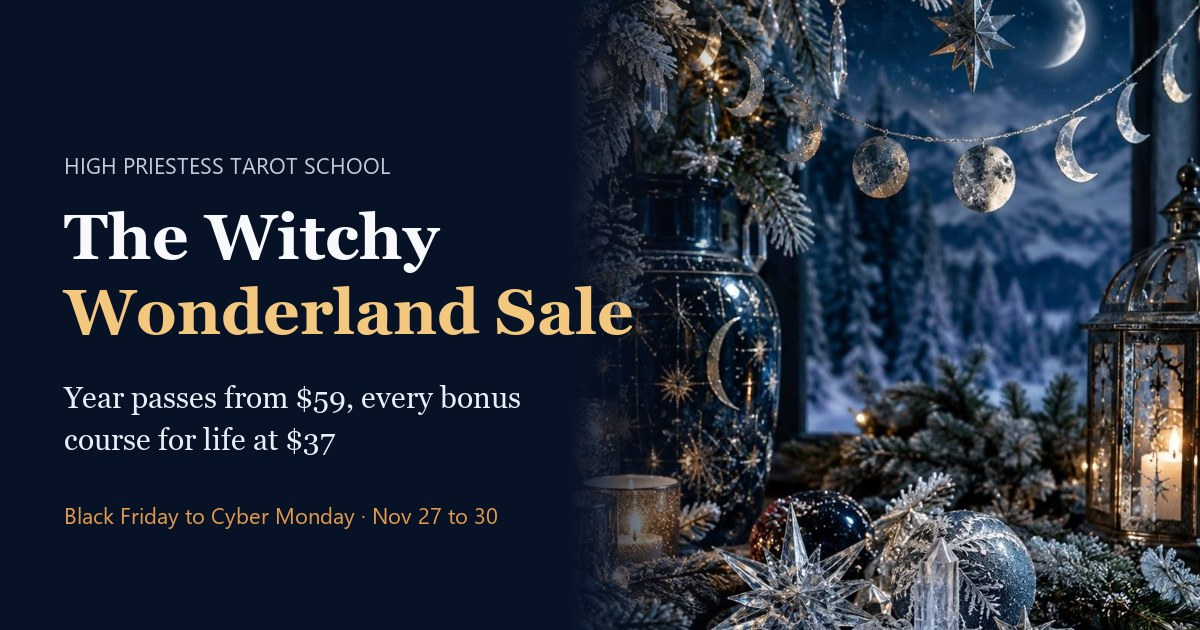
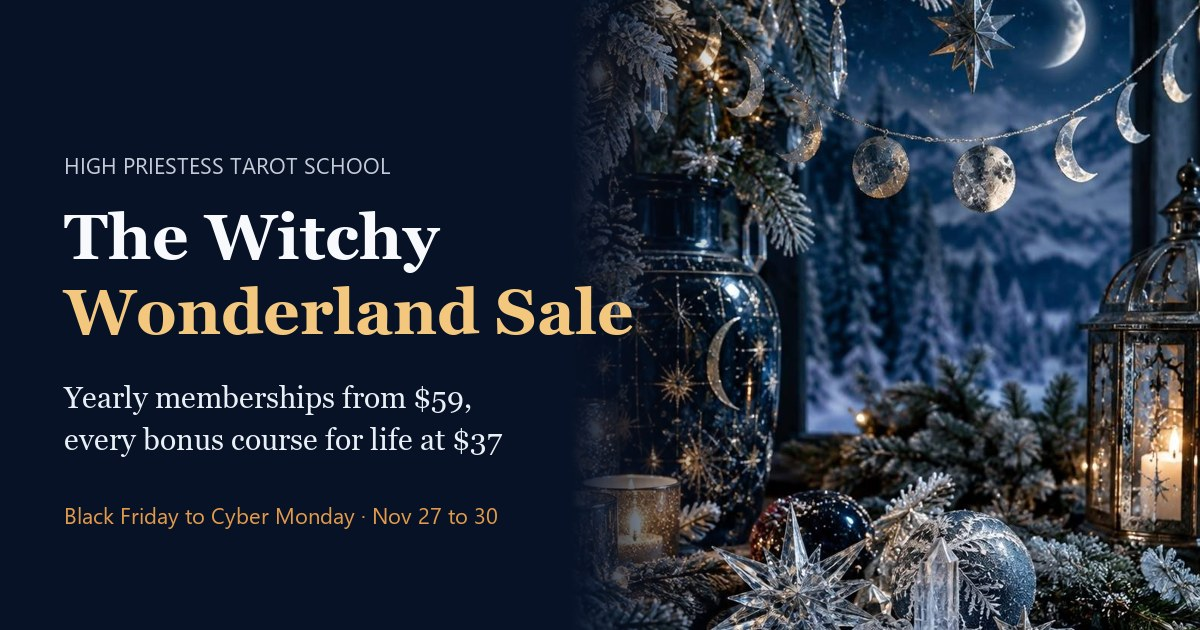
Witchy Wonderland: yearly memberships

Changed region(s): [[0.0617, 0.6032, 0.4317, 0.7238]]

diff --git a/witchy-wonderland/index.html b/witchy-wonderland/index.html
@@ -4,19 +4,19 @@
 <meta charset="utf-8">
 <meta name="viewport" content="width=device-width, initial-scale=1">
 <title>The Witchy Wonderland Sale · High Priestess Tarot School</title>
-<meta name="description" content="Year passes for every level of High Priestess Tarot School from $59, plus every bonus course for life at $37. Black Friday through Cyber Monday, Nov 27 to 30.">
+<meta name="description" content="Yearly memberships for every level of High Priestess Tarot School from $59 a year, plus every bonus course for life at $37. Black Friday through Cyber Monday, Nov 27 to 30.">
 <link rel="canonical" href="https://links.sunnysink.com/witchy-wonderland/">
 <meta property="og:type" content="website">
 <meta property="og:site_name" content="High Priestess Tarot School">
 <meta property="og:title" content="The Witchy Wonderland Sale · High Priestess Tarot School">
-<meta property="og:description" content="Year passes for every level of High Priestess Tarot School from $59, plus every bonus course for life at $37. Black Friday through Cyber Monday, Nov 27 to 30.">
+<meta property="og:description" content="Yearly memberships for every level of High Priestess Tarot School from $59 a year, plus every bonus course for life at $37. Black Friday through Cyber Monday, Nov 27 to 30.">
 <meta property="og:url" content="https://links.sunnysink.com/witchy-wonderland/">
 <meta property="og:image" content="https://links.sunnysink.com/witchy-wonderland/preview.jpg">
 <meta property="og:image:width" content="1200">
 <meta property="og:image:height" content="630">
 <meta name="twitter:card" content="summary_large_image">
 <meta name="twitter:title" content="The Witchy Wonderland Sale · High Priestess Tarot School">
-<meta name="twitter:description" content="Year passes for every level of High Priestess Tarot School from $59, plus every bonus course for life at $37. Black Friday through Cyber Monday, Nov 27 to 30.">
+<meta name="twitter:description" content="Yearly memberships for every level of High Priestess Tarot School from $59 a year, plus every bonus course for life at $37. Black Friday through Cyber Monday, Nov 27 to 30.">
 <meta name="twitter:image" content="https://links.sunnysink.com/witchy-wonderland/preview.jpg">
 <link rel="preconnect" href="https://fonts.googleapis.com">
 <link rel="preconnect" href="https://fonts.gstatic.com" crossorigin>
@@ -233,7 +233,7 @@ footer a{color:var(--silver)}
       <p class="eyebrow">High Priestess Tarot School presents</p>
       <h1 class="saletitle">The Witchy Wonderland Sale</h1>
       <p class="promise">Every bonus course, yours for life. <em>For the first time ever.</em></p>
-      <p class="sub">Year passes from $59, plus every bonus course for life at $37. Black Friday through Cyber Monday only.</p>
+      <p class="sub">Yearly memberships from $59 a year, plus every bonus course for life at $37. Black Friday through Cyber Monday only.</p>
       <a class="btn" href="#price">See the offers</a>
       <p class="dates">Nov 27 to 30, 2026 · ends Monday at 11:59pm Pacific</p>
     </div>
@@ -243,9 +243,9 @@ footer a{color:var(--silver)}
         <div class="top"><span>High Priestess Tarot School</span><span>❄ ☾ ✦</span></div>
         <div class="title"><small>The Witchy Wonderland Sale</small>Your 2027 in tarot</div>
         <div class="tiles">
-          <div class="tile"><b>HPTS Year Pass</b><span>12 months</span></div>
-          <div class="tile"><b>TMC Year Pass</b><span>12 months</span></div>
-          <div class="tile"><b>MIM Year Pass</b><span>12 months</span></div>
+          <div class="tile"><b>HPTS Yearly</b><span>$59 a year</span></div>
+          <div class="tile"><b>TMC Yearly</b><span>$247 a year</span></div>
+          <div class="tile"><b>MIM Yearly</b><span>$444 a year</span></div>
           <div class="tile"><b>The Priestess Path Collection</b><span>Lifetime access</span></div>
         </div>
       </div></div>
@@ -275,14 +275,14 @@ footer a{color:var(--silver)}
   <div class="wrap cols">
     <div>
       <h2>What changes in 2027</h2>
-      <p style="color:var(--silver)">A year pass gives your tarot study a home for twelve months, paid for and ready, so the plan you make in January is still going strong in June.</p>
+      <p style="color:var(--silver)">A yearly membership gives your tarot study a home all year, at a sale price that stays yours every year you stay, so the plan you make in January is still going strong in June.</p>
     </div>
     <ul>
       <li>You pull a card and start talking. The meaning comes from you, and you trust it.</li>
       <li>Your lessons, your questions and your community are all in one place, every month of the year.</li>
       <li>When a friend says "will you read for me?", you say yes and enjoy it.</li>
       <li>You know your next step, whether that's certification or going deeper into intuition and magic.</li>
-      <li>Your budget for the year's learning is settled before the holidays are over.</li>
+      <li>Your price for the year's learning is set before the holidays are over, and it stays that price every year you renew.</li>
     </ul>
   </div>
 </section>
@@ -292,7 +292,7 @@ footer a{color:var(--silver)}
   <div class="wrap">
     <p class="eyebrow" style="color:var(--ember)">The offer</p>
     <h2>Four ways to give yourself 2027 in tarot.</h2>
-    <p class="lead">The Witchy Wonderland Sale runs for four days only. Pick the year pass that matches where you are right now, from your first lessons to certification and beyond. Or pick The Priestess Path Collection for lifetime access to six courses. You pay once, and your whole year of tarot is ready to go.</p>
+    <p class="lead">The Witchy Wonderland Sale runs for four days only. Pick the yearly membership that matches where you are right now, from your first lessons to certification and beyond. Or pick The Priestess Path Collection for lifetime access to six courses. You pay once, and your whole year of tarot is ready to go.</p>
   </div>
 </section>
 
@@ -300,12 +300,12 @@ footer a{color:var(--silver)}
 <section class="inside">
   <div class="wrap">
     <p class="eyebrow" style="color:var(--ember)">What's inside</p>
-    <h2>Tarot School Year Passes</h2>
+    <h2>Tarot School Yearly Memberships</h2>
 
     <div class="row">
-      <div class="label"><small>Year pass</small>High Priestess Tarot School</div>
+      <div class="label"><small>Yearly membership</small>High Priestess Tarot School</div>
       <div><h4>What it holds</h4><ul>
-        <li>12 months of High Priestess Tarot School</li>
+        <li>A full year of High Priestess Tarot School, renewing yearly</li>
         <li>The 33-lesson core course</li>
         <li>Five bonus trainings, including Magic of Tarot &amp; Astrology</li>
         <li>The Tarot Reflections Journal</li>
@@ -316,9 +316,9 @@ footer a{color:var(--silver)}
     </div>
 
     <div class="row tmcrow">
-      <div class="label"><small>Year pass</small>Tarot Mastery Circle</div>
+      <div class="label"><small>Yearly membership</small>Tarot Mastery Circle</div>
       <div><h4>What it holds</h4><ul>
-        <li>12 months of Tarot Mastery Circle</li>
+        <li>A full year of Tarot Mastery Circle, renewing yearly</li>
         <li>Everything in High Priestess Tarot School</li>
         <li>Live practice sessions and a weekly Zoom</li>
         <li>Live feedback on your readings</li>
@@ -329,9 +329,9 @@ footer a{color:var(--silver)}
     </div>
 
     <div class="row">
-      <div class="label"><small>Year pass</small>Magic and Intuition Mastery</div>
+      <div class="label"><small>Yearly membership</small>Magic and Intuition Mastery</div>
       <div><h4>What it holds</h4><ul>
-        <li>12 months of full access to Magic and Intuition Mastery, Tarot Mastery Circle and High Priestess Tarot School</li>
+        <li>A full year of Magic and Intuition Mastery, Tarot Mastery Circle and High Priestess Tarot School, renewing yearly</li>
         <li>Lifetime access to the MIM core content</li>
         <li>Your $99 certification fee, covered</li>
       </ul></div>
@@ -347,7 +347,7 @@ footer a{color:var(--silver)}
     <p class="eyebrow" style="color:var(--glow)">Lifetime access</p>
     <h2>The Priestess Path Collection</h2>
     <p class="lead">Six courses that are yours for life. Each one arrives in your inbox as its own PDF with links to everything inside, so you can keep them, come back to them and work through them at your own pace.</p>
-    <p class="lead"><b>All six courses are also inside High Priestess Tarot School.</b> The HPTS Year Pass gives you every one of them for 12 months, along with the 33-lesson core course, the Tarot Reflections Journal, Q&amp;A by video and the community, for $59.</p>
+    <p class="lead"><b>All six courses are also inside High Priestess Tarot School.</b> The HPTS Yearly Membership gives you every one of them all year, along with the 33-lesson core course, the Tarot Reflections Journal, Q&amp;A by video and the community, for $59.</p>
     <div class="courses">
       <div><b>Magic of Tarot &amp; Astrology</b><i>Integrate tarot and astrology</i><ul><li>Tarot foundations refresher video</li><li>Astrology foundations refresher video</li><li>12 zodiac sign videos, one for each season</li><li>20 seasonal spreads, 5 for each season</li><li>Yearly Astrology Guide</li><li>The Magic of Tarot &amp; Astrology Guide</li><li>Interactive astrology tool</li></ul></div>
       <div><b>The Esoteric Key</b><i>Tarot symbolism for intuitive readers</i><ul><li>6 video lessons on symbols, colors, animals, elements, numerology and the major arcana</li><li>Tarot Symbolism Guide and Journal</li><li>Build Your Own Tarot Symbolism Guide (Canva templates)</li><li>26-page Expanded Tarot Symbolism Glossary</li><li>History of Tarot PDF</li><li>Printable symbolism flashcards</li></ul></div>
@@ -369,7 +369,7 @@ footer a{color:var(--silver)}
       <h2>Hi, I'm Sunny.</h2>
       <p>I'm the teacher behind High Priestess Tarot School. I've read oracle cards since 2017 and tarot since late 2021, and I've taught tarot since March 2023 to more than 3,000 students.</p>
       <p>When I started tarot, I tried to memorize the meanings from guidebooks, and every book told me something different. What finally worked was something I was already doing with my oracle cards on my daily TikTok lives. I made High Priestess Tarot School to teach open-ended meanings that work in every situation, so my students can read from their own intuition.</p>
-      <p>I made the Witchy Wonderland Sale to give you more access to everything I teach. A year pass opens up a full year of the school at once, and for the first time ever, I'm offering lifetime access to all of my bonus courses in The Priestess Path Collection.</p>
+      <p>I made the Witchy Wonderland Sale to give you more access to everything I teach. A yearly membership opens up a full year of the school at a price you keep, and for the first time ever, I'm offering lifetime access to all of my bonus courses in The Priestess Path Collection.</p>
     </div>
   </div>
 </section>
@@ -396,12 +396,12 @@ footer a{color:var(--silver)}
     <p class="eyebrow" style="color:var(--ember)">Who it's for</p>
     <h2>Pick the one that sounds like you.</h2>
     <div class="list">
-      <p><b>You're new to tarot</b> or you've been dabbling for a while, and you want to feel like a real reader by the end of 2027. Choose the HPTS Year Pass.</p>
-      <p><b>You already read for yourself</b> and you want practice, feedback and a certification in 2027. Choose the TMC Year Pass.</p>
-      <p><b>You want everything</b>: the school, the circle, and the deepest work on intuition and magic. Choose the MIM Year Pass.</p>
+      <p><b>You're new to tarot</b> or you've been dabbling for a while, and you want to feel like a real reader by the end of 2027. Choose the HPTS Yearly Membership.</p>
+      <p><b>You already read for yourself</b> and you want practice, feedback and a certification in 2027. Choose the TMC Yearly Membership.</p>
+      <p><b>You want everything</b>: the school, the circle, and the deepest work on intuition and magic. Choose the MIM Yearly Membership.</p>
       <p><b>You love owning your courses</b> and want lifetime access to work through them in your own time. Choose The Priestess Path Collection.</p>
-      <p><b>You're already a monthly member</b> and you'd like to pay for the year at the sale price. Any year pass works for you too.</p>
-      <p><b>You're shopping for a tarot lover</b> in your life. A year pass makes a gift they'll use all year.</p>
+      <p><b>You're already a monthly member</b> and you'd like to pay yearly at the sale price. Any yearly membership works for you too.</p>
+      <p><b>You're shopping for a tarot lover</b> in your life. The Priestess Path Collection makes a gift they keep for life.</p>
     </div>
   </div>
 </section>
@@ -409,27 +409,27 @@ footer a{color:var(--silver)}
 <!-- 10 PRICE -->
 <section class="price" id="price">
   <div class="wrap">
-    <p class="eyebrow" style="color:var(--glow)">Tarot School Year Passes</p>
+    <p class="eyebrow" style="color:var(--glow)">Tarot School Yearly Memberships</p>
     <h2>Choose your year.</h2>
-    <p class="intro">Each year pass is one payment for 12 months, at a price that only runs through Monday, November 30.</p>
+    <p class="intro">Each yearly membership renews at the sale price you join at, every year you stay. Cancel anytime. The sale price is open through Monday, November 30.</p>
     <div class="options">
       <div class="opt hpts">
         <span class="who">Start here</span>
-        <h3>HPTS Year Pass</h3>
+        <h3>HPTS Yearly Membership</h3>
         <ul>
-          <li>12 months of High Priestess Tarot School</li>
+          <li>A full year of High Priestess Tarot School</li>
           <li>33-lesson core course</li>
           <li>Five bonus trainings, including Magic of Tarot &amp; Astrology</li>
           <li>Tarot Reflections Journal</li>
           <li>Q&amp;A by video and the community</li>
         </ul>
         <div class="amt">$59</div>
-        <div class="after">One payment for 12 months. Regularly $84 a year at $7 a month. You save $25.</div>
-        <a class="btn" href="#fill-in-stripe-link-hpts">Get the HPTS Year Pass</a>
+        <div class="after">Billed yearly, renews at $59. Regularly $84 a year at $7 a month. You save $25 every year. Cancel anytime.</div>
+        <a class="btn" href="#fill-in-stripe-link-hpts">Get the HPTS Yearly Membership</a>
       </div>
       <div class="opt tmc">
         <span class="who">Practice and certify</span>
-        <h3>TMC Year Pass</h3>
+        <h3>TMC Yearly Membership</h3>
         <ul>
           <li>12 months of Tarot Mastery Circle</li>
           <li>Everything in High Priestess Tarot School</li>
@@ -439,20 +439,20 @@ footer a{color:var(--silver)}
           <li>Path to certification ($99 fee separate)</li>
         </ul>
         <div class="amt">$247</div>
-        <div class="after">One payment for 12 months. Regularly $324 a year at $27 a month. You save $77.</div>
-        <a class="btn" href="#fill-in-stripe-link-tmc">Get the TMC Year Pass</a>
+        <div class="after">Billed yearly, renews at $247. Regularly $324 a year at $27 a month. You save $77 every year. Cancel anytime.</div>
+        <a class="btn" href="#fill-in-stripe-link-tmc">Get the TMC Yearly Membership</a>
       </div>
       <div class="opt mim">
         <span class="who">Everything</span>
-        <h3>MIM Year Pass</h3>
+        <h3>MIM Yearly Membership</h3>
         <ul>
-          <li>12 months of MIM, TMC and HPTS</li>
+          <li>A full year of MIM, TMC and HPTS</li>
           <li>Lifetime access to the MIM core content</li>
           <li>$99 certification fee covered</li>
         </ul>
         <div class="amt">$444</div>
-        <div class="after">One payment for 12 months. Regularly $555 for the year, or $708 at $59 a month. You save $111.</div>
-        <a class="btn" href="#fill-in-stripe-link-mim">Get the MIM Year Pass</a>
+        <div class="after">Billed yearly, renews at $444. Regularly $555 for the year, or $708 at $59 a month. You save $111 every year. Cancel anytime.</div>
+        <a class="btn" href="#fill-in-stripe-link-mim">Get the MIM Yearly Membership</a>
       </div>
     </div>
 
@@ -471,7 +471,7 @@ footer a{color:var(--silver)}
       </div>
       <div class="pay">
         <div class="amt">$37</div>
-        <div class="after">One payment, yours for life. Regularly $54 at $9 a course. You save $17. Delivered to your inbox. The collection closes Nov 30. All six courses are also inside the HPTS Year Pass.</div>
+        <div class="after">One payment, yours for life. Regularly $54 at $9 a course. You save $17. Delivered to your inbox. The collection closes Nov 30. All six courses are also inside the HPTS Yearly Membership.</div>
         <a class="btn" href="#fill-in-stripe-link-collection">Get the Collection</a>
       </div>
     </div>
@@ -490,7 +490,7 @@ footer a{color:var(--silver)}
       <div class="day"><div class="n">Sunday</div><div class="d">Nov 29</div><p>Open.</p></div>
       <div class="day"><div class="n">Monday</div><div class="d">Nov 30</div><p>Cyber Monday. Last day to buy, until 11:59pm Pacific.</p></div>
     </div>
-    <p><b>Why it ends Monday night:</b> Cyber Monday closes the holiday shopping weekend. On December 1 the year passes go back to their regular prices, and The Priestess Path Collection closes.</p>
+    <p><b>Why it ends Monday night:</b> Cyber Monday closes the holiday shopping weekend. On December 1 the yearly memberships go back to their regular prices for new members, and The Priestess Path Collection closes.</p>
   </div>
 </section>
 
@@ -499,13 +499,13 @@ footer a{color:var(--silver)}
   <div class="wrap">
     <p class="eyebrow" style="color:var(--glow)">Questions</p>
     <h2>Before you choose.</h2>
-    <details><summary>Does my year pass renew on its own?</summary><p>No. You pay once for 12 months. Before your year is up, I'll email you with your options to keep going.</p></details>
-    <details><summary>When does my year start?</summary><p>The day you buy. Your 12 months run from that date.</p></details>
-    <details><summary>I'm already a monthly member. Can I switch to a year pass?</summary><p>Yes. Buy the year pass, then email support@sunnysink.com, and we'll stop your monthly billing so you're never charged twice.</p></details>
+    <details><summary>Does my yearly membership renew on its own?</summary><p>Yes. It renews each year at the sale price you joined at, so your price stays the same every year you stay. Cancel anytime before your renewal date by emailing support@sunnysink.com.</p></details>
+    <details><summary>When does my year start?</summary><p>The day you join. Your membership renews on that date each year.</p></details>
+    <details><summary>I'm already a monthly member. Can I switch to a yearly membership?</summary><p>Yes. Join the yearly membership, then email support@sunnysink.com, and we'll stop your monthly billing so you're never charged twice.</p></details>
     <details><summary>Do I need to know any tarot already?</summary><p>No. High Priestess Tarot School starts at the very beginning. If you already read, the TMC and MIM passes meet you where you are.</p></details>
-    <details><summary>What's the difference between the HPTS Year Pass and The Priestess Path Collection?</summary><p>The HPTS Year Pass gives you a year in the school: the core course, five bonus trainings, the journal, video Q&amp;A and the community. The Priestess Path Collection gives you lifetime access to six courses, including Shadow Priestess Path, delivered to your inbox as PDFs with links to everything inside.</p></details>
-    <details><summary>Is certification included?</summary><p>The TMC Year Pass includes the path to certification, and the $99 certification fee is paid separately if you choose to certify. The MIM Year Pass covers the $99 fee.</p></details>
-    <details><summary>Can I give a year pass as a gift?</summary><p>Yes. Buy it, then email support@sunnysink.com with your person's name and email address, and we'll set them up in time for the holidays.</p></details>
+    <details><summary>What's the difference between the HPTS Yearly Membership and The Priestess Path Collection?</summary><p>The HPTS Yearly Membership gives you a year in the school: the core course, five bonus trainings, the journal, video Q&amp;A and the community. The Priestess Path Collection gives you lifetime access to six courses, including Shadow Priestess Path, delivered to your inbox as PDFs with links to everything inside.</p></details>
+    <details><summary>Is certification included?</summary><p>The TMC Yearly Membership includes the path to certification, and the $99 certification fee is paid separately if you choose to certify. The MIM Yearly Membership covers the $99 fee.</p></details>
+    <details><summary>Can I give one as a gift?</summary><p>The Priestess Path Collection is the gift: one payment and lifetime access. Buy it, then email support@sunnysink.com with your person's name and email address, and we'll send it to them in time for the holidays.</p></details>
     <details><summary>What if I have a question about refunds?</summary><p>My full terms, including refunds, are at sunnysink.com/terms-conditions. You can also email support@sunnysink.com before you buy.</p></details>
   </div>
 </section>
@@ -515,7 +515,7 @@ footer a{color:var(--silver)}
   <div class="wrap">
     <p class="eyebrow" style="color:var(--ember)">How it works</p>
     <h2>How to buy, and what happens next.</h2>
-    <h3 style="margin-top:28px">If you choose a year pass</h3>
+    <h3 style="margin-top:28px">If you choose a yearly membership</h3>
     <div class="steps">
       <div class="step"><b>Choose your pass</b>Tap the button for HPTS, TMC or MIM.</div>
       <div class="step"><b>Pay with Stripe</b>Checkout is secure and takes about a minute.</div>
@@ -538,8 +538,8 @@ footer a{color:var(--silver)}
   <div class="wrap inner">
     <div class="garland" aria-hidden="true"><i class="moon c1"></i><i class="moon c2"></i><i class="moon"></i><i class="moon c3"></i><i class="moon c4"></i></div>
     <h2>Your 2027 in tarot starts with one choice.</h2>
-    <p>Year passes and The Priestess Path Collection are open through Monday, November 30 at 11:59pm Pacific.</p>
-    <a class="btn" href="#price">Choose your year pass</a>
+    <p>Yearly memberships at the sale price and The Priestess Path Collection are open through Monday, November 30 at 11:59pm Pacific.</p>
+    <a class="btn" href="#price">Choose your yearly membership</a>
     <div class="ps"><p><b>P.S.</b> If you've been meaning to learn tarot "properly" for a while now, this is the weekend to settle it for a whole year. The sale prices end Monday night at 11:59pm Pacific.</p></div>
   </div>
 </section>

diff --git a/witchy-wonderland.html b/witchy-wonderland.html
@@ -1,19 +1,19 @@
 <!doctype html>
 <html lang="en"><head><meta charset="utf-8">
 <title>The Witchy Wonderland Sale · High Priestess Tarot School</title>
-<meta name="description" content="Year passes for every level of High Priestess Tarot School from $59, plus every bonus course for life at $37. Black Friday through Cyber Monday, Nov 27 to 30.">
+<meta name="description" content="Yearly memberships for every level of High Priestess Tarot School from $59 a year, plus every bonus course for life at $37. Black Friday through Cyber Monday, Nov 27 to 30.">
 <link rel="canonical" href="https://links.sunnysink.com/witchy-wonderland/">
 <meta property="og:type" content="website">
 <meta property="og:site_name" content="High Priestess Tarot School">
 <meta property="og:title" content="The Witchy Wonderland Sale · High Priestess Tarot School">
-<meta property="og:description" content="Year passes for every level of High Priestess Tarot School from $59, plus every bonus course for life at $37. Black Friday through Cyber Monday, Nov 27 to 30.">
+<meta property="og:description" content="Yearly memberships for every level of High Priestess Tarot School from $59 a year, plus every bonus course for life at $37. Black Friday through Cyber Monday, Nov 27 to 30.">
 <meta property="og:url" content="https://links.sunnysink.com/witchy-wonderland/">
 <meta property="og:image" content="https://links.sunnysink.com/witchy-wonderland/preview.jpg">
 <meta property="og:image:width" content="1200">
 <meta property="og:image:height" content="630">
 <meta name="twitter:card" content="summary_large_image">
 <meta name="twitter:title" content="The Witchy Wonderland Sale · High Priestess Tarot School">
-<meta name="twitter:description" content="Year passes for every level of High Priestess Tarot School from $59, plus every bonus course for life at $37. Black Friday through Cyber Monday, Nov 27 to 30.">
+<meta name="twitter:description" content="Yearly memberships for every level of High Priestess Tarot School from $59 a year, plus every bonus course for life at $37. Black Friday through Cyber Monday, Nov 27 to 30.">
 <meta name="twitter:image" content="https://links.sunnysink.com/witchy-wonderland/preview.jpg">
 <meta http-equiv="refresh" content="0; url=https://links.sunnysink.com/witchy-wonderland/">
 <script>location.replace("https://links.sunnysink.com/witchy-wonderland/" + location.search + location.hash)</script>
